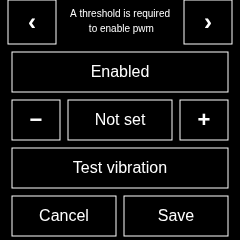
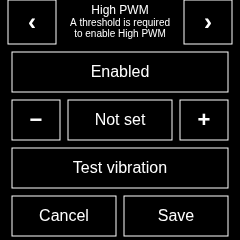
fix: name the alert in its errors and keep its title above them (#69)
Saving an enabled alert without a threshold said "A threshold is required
to enable pwm", naming the alert by its internal key, and the error
replaced the alert's title. Every alert validation message now uses the
display name the editor shows: "A threshold is required to enable High
PWM" / "High speed" / "Low wheel battery", "Invalid High PWM threshold"
(the laptop keeps its range suffix, e.g. "(0–100%)"), and "Invalid High
PWM alert setting". The names have one source per side:
configuration.ALERT_LABELS (laptop; alert_editor.py's view uses it too)
and configuration.labels (watch; render.js uses it for both titles).

While a message shows, the alert editor keeps its title at the top and
draws the message under it, wrapped at spaces into at most three lines of
23 characters, between the arrows and above Enabled (y 52). The page
number ("1/4") gives way, as before. The laptop Canvas and the watch use
the same wrap, so they show the same lines; no touch target moved.

Tests: test_alert_editor.py and watch/tests/alert-editor.cjs pin the
missing-threshold message for pwm, speed and battery; alerts-runtime.cjs
pins the drawn title and lines on the watch for all three, and
browser_alerts.py pins them on the laptop Canvas for High PWM and Low
wheel battery (the longest name, three lines). The shared trace
docs/acceptance/scenarios/alert-editor-keys.json expects the new
message.

Evidence (evidence-compare.py refactor/architecture-51 --browser: 6
[…]

Changed region(s): [[0.2917, 0.0, 0.7292, 0.175]]

diff --git a/watch/render.js b/watch/render.js
@@ -1,4 +1,6 @@
-/* Original 240x240, 1-bpp presentation; Canvas layout carried to Espruino Graphics. */
+/* Original 240x240, 1-bpp presentation; Canvas layout carried to Espruino Graphics.
+   The alert editor keeps its title above a message, wrapped at spaces into up to three 23-character lines, as the
+   laptop Canvas does (frontend/src/main.ts). */
 exports.draw = function (g, state) {
   var d = state.dashboard, i, x, y;
   function text(value, x, y, size, align) {
@@ -9,6 +11,14 @@ exports.draw = function (g, state) {
     g.setFont('Vector',size);
     while(size>1&&g.stringWidth(String(value))>width){size--;g.setFont('Vector',size);}
     return size;
+  }
+  function wrap(value,width,count){
+    var lines=[],cut;
+    while(value&&lines.length<count){
+      cut=value.length<=width?value.length:value.lastIndexOf(' ',width);if(cut<=0)cut=width;
+      lines.push(value.slice(0,cut));value=value.slice(cut).replace(/^ +/,'');
+    }
+    return lines;
   }
   function controls(){require('sw-controls').targets(state).forEach(function(target){
     var r=target.rect,width=r[2]-r[0],size=target.action==='preset_input_begin'?22:width<=48?12:16;
@@ -61,14 +71,14 @@ exports.draw = function (g, state) {
     var message=state.horn_feedback?state.horn_feedback.message:state.validation_error|| (state.persistence_error?'Configuration needs review':'');
     text(message||'SETTINGS',120,10,message?10:15);controls();
   }else if(state.screen==='alerts'){
-    var name=['pwm','speed','battery','lost'][state.alert_page];
+    var name=['pwm','speed','battery','lost'][state.alert_page],alertLabels=require('sw-configuration').labels;
     controls();
     var message=state.validation_error||state.persistence_error||(state.vibration.output_error?'Vibration output unavailable':'')||(state.horn_feedback?state.horn_feedback.message:'');
-    if(message){message=message.replace(/^Error: /,'');text(message.slice(0,23),120,7,10);text(message.slice(23,46),120,22,10);}
-    else {text({pwm:'High PWM',speed:'High speed',battery:'Low wheel battery',lost:'Lost telemetry'}[name],120,6,12);text((state.alert_page+1)+'/4',120,24,12);}
+    if(message){text(alertLabels[name],120,2,12);wrap(message.replace(/^Error: /,''),23,3).forEach(function(line,index){text(line,120,16+index*11,10);});}
+    else {text(alertLabels[name],120,6,12);text((state.alert_page+1)+'/4',120,24,12);}
     if(name==='lost')text('1 short pulse',120,111,14);
   }else if(state.screen==='threshold'){
-    text(state.validation_error?'Invalid threshold':{pwm:'High PWM',speed:'High speed',battery:'Low wheel battery'}[state.threshold_input.alert],120,2,12);
+    text(state.validation_error?'Invalid threshold':require('sw-configuration').labels[state.threshold_input.alert],120,2,12);
     text((state.threshold_input.text||'-')+(state.threshold_input.alert==='speed'?' km/h':' %'),120,20,20);controls();
   } else if(state.screen==='connection'){
     text('SELECT WHEEL',120,10,15);

diff --git a/frontend/src/main.ts b/frontend/src/main.ts
@@ -519,6 +519,17 @@ function watchButton(rect: Rect, label: string, size = 16): void {
 // An action refused before it reached the alert editor (transport, lease) has no
 // reason in the view, so the Canvas shows the browser's own message for it.
 function alertEditorAction(actionName: string): boolean { return actionName.startsWith('alerts_') || actionName.startsWith('threshold_'); }
+// The alert title stays above a message, wrapped at spaces into lines of at most width characters, as watch/render.js does.
+function wrapLines(value: string, width: number, count: number): string[] {
+  const lines: string[] = [];
+  while (value && lines.length < count) {
+    let cut = value.length <= width ? value.length : value.lastIndexOf(' ', width);
+    if (cut <= 0) cut = width;
+    lines.push(value.slice(0, cut));
+    value = value.slice(cut).replace(/^ +/, '');
+  }
+  return lines;
+}
 function renderWatchAlerts(editor: AlertEditorView): void {
   const error = watchError || editor.reason || current?.persistence_error || '';
   const entry = editor.entry;
@@ -533,8 +544,8 @@ function renderWatchAlerts(editor: AlertEditorView): void {
   }
   watchButton(alertRects.previous, '‹', 24); watchButton(alertRects.next, '›', 24);
   if (error) {
-    text(error.slice(0, 23), 120, 17, 10, '#ffffff', 'center');
-    text(error.slice(23, 46), 120, 32, 10, '#ffffff', 'center');
+    text(editor.label, 120, 14, 12, '#ffffff', 'center');
+    wrapLines(error, 23, 3).forEach((line, index) => text(line, 120, 26 + index * 11, 10, '#ffffff', 'center'));
   } else {
     text(editor.label, 120, 18, 12, '#ffffff', 'center');
     text(`${editor.page + 1}/4`, 120, 36, 12, '#ffffff', 'center');

diff --git a/watch/configuration.js b/watch/configuration.js
@@ -31,15 +31,17 @@ function readableName(text){
 }
 /* Highest saved threshold per measurement alert; zero is the lowest. */
 exports.thresholdLimits={pwm:100,speed:3276.7,battery:100};
+/* Each alert's display name: the alert editor's title and the name its messages use. */
+exports.labels={pwm:'High PWM',speed:'High speed',battery:'Low wheel battery',lost:'Lost telemetry'};
 exports.validateAlerts=function(alerts){
   if(!keys(alerts,['pwm','speed','battery','lost']))throw new Error('All four alert settings are required');
   Object.keys(alerts).forEach(function(name){
     var setting=alerts[name],threshold;
-    if(!keys(setting,name==='lost'?['enabled']:['enabled','threshold'])||typeof setting.enabled!=='boolean')throw new Error('Invalid '+name+' alert setting');
+    if(!keys(setting,name==='lost'?['enabled']:['enabled','threshold'])||typeof setting.enabled!=='boolean')throw new Error('Invalid '+exports.labels[name]+' alert setting');
     if(name==='lost')return;
     threshold=setting.threshold;
-    if(threshold===null){if(setting.enabled)throw new Error('A threshold is required to enable '+name);}
-    else if(typeof threshold!=='number'||!isFinite(threshold)||threshold<0||threshold>exports.thresholdLimits[name])throw new Error('Invalid '+name+' threshold');
+    if(threshold===null){if(setting.enabled)throw new Error('A threshold is required to enable '+exports.labels[name]);}
+    else if(typeof threshold!=='number'||!isFinite(threshold)||threshold<0||threshold>exports.thresholdLimits[name])throw new Error('Invalid '+exports.labels[name]+' threshold');
   });
   return exports.copy(alerts);
 };

diff --git a/tests/test_alert_editor.py b/tests/test_alert_editor.py
@@ -181,11 +181,11 @@ class AlertEditorTests(unittest.TestCase):
         app.action("alerts_update", alert="pwm", enabled=True)
 
         def fail():
-            with self.assertRaisesRegex(ValueError, "threshold is required to enable pwm"):
+            with self.assertRaisesRegex(ValueError, "threshold is required to enable High PWM"):
                 app.action("alerts_save")
             state = app.view()
             self.assertEqual(state["config"], saved)
-            self.assertEqual(state["alert_editor"]["reason"], "A threshold is required to enable pwm")
+            self.assertEqual(state["alert_editor"]["reason"], "A threshold is required to enable High PWM")
             return state
 
         fail()
@@ -214,6 +214,24 @@ class AlertEditorTests(unittest.TestCase):
         self.assertEqual(state["screen"], "settings")
         self.assertEqual(state["command_events"], [])
 
+    def test_a_missing_threshold_names_the_alert_the_editor_shows(self):
+        # The same messages are pinned on the watch in watch/tests/alert-editor.cjs.
+        for page, alert, title, message in (
+            (0, "pwm", "High PWM", "A threshold is required to enable High PWM"),
+            (1, "speed", "High speed", "A threshold is required to enable High speed"),
+            (2, "battery", "Low wheel battery", "A threshold is required to enable Low wheel battery"),
+        ):
+            with self.subTest(alert=alert):
+                app = settings()
+                app.action("alerts_begin")
+                app.action("alerts_page", page=page)
+                app.action("alerts_update", alert=alert, enabled=True)
+                with self.assertRaises(ValueError) as refused:
+                    app.action("alerts_save")
+                self.assertEqual(str(refused.exception), message)
+                editor = app.view()["alert_editor"]
+                self.assertEqual((editor["label"], editor["reason"]), (title, message))
+
     def test_out_of_range_entry_is_refused_at_save(self):
         app = settings()
         app.action("alerts_begin")
@@ -223,9 +241,9 @@ class AlertEditorTests(unittest.TestCase):
             app.action("threshold_key", key=key)
         state = app.action("threshold_done")
         self.assertEqual(state["alert_editor"]["threshold_label"], "101 %")
-        with self.assertRaisesRegex(ValueError, "Invalid battery threshold"):
+        with self.assertRaisesRegex(ValueError, "Invalid Low wheel battery threshold"):
             app.action("alerts_save")
-        self.assertEqual(app.view()["alert_editor"]["reason"], "Invalid battery threshold (0–100%)")
+        self.assertEqual(app.view()["alert_editor"]["reason"], "Invalid Low wheel battery threshold (0–100%)")
         self.assertEqual(app.view()["config"]["revision"], 0)
 
     def test_cancel_discards_the_draft_and_keeps_the_saved_alerts(self):
@@ -328,9 +346,9 @@ class AlertEditorTests(unittest.TestCase):
         entry = app.action("threshold_begin", alert="speed")["alert_editor"]["entry"]
         self.assertEqual(entry["text"], "NaN")
         app.action("threshold_cancel")
-        with self.assertRaisesRegex(ValueError, "Invalid speed threshold"):
+        with self.assertRaisesRegex(ValueError, "Invalid High speed threshold"):
             app.action("alerts_save")
-        self.assertEqual(app.view()["alert_editor"]["reason"], "Invalid speed threshold (0–3276.7 km/h)")
+        self.assertEqual(app.view()["alert_editor"]["reason"], "Invalid High speed threshold (0–3276.7 km/h)")
 
     def test_no_editor_view_without_an_alert_draft(self):
         app = settings()

diff --git a/tests/browser_alerts.py b/tests/browser_alerts.py
@@ -5,6 +5,32 @@ import asyncio
 from eucwatch import Application
 from support import evidence_directory, main, served_laptop, write_evidence
 
+# Records the text of the latest Canvas frame. Each frame starts by filling the whole 240x240 watch and is drawn
+# synchronously, so a page evaluation never sees half a frame.
+FRAME_TEXT = """(() => {
+  if (window.frameText) return;
+  const proto = CanvasRenderingContext2D.prototype, fillRect = proto.fillRect, fillText = proto.fillText;
+  window.frameText = [];
+  proto.fillRect = function (x, y, width, height) {
+    if (x === 0 && y === 0 && width === 240 && height === 240) window.frameText = [];
+    return fillRect.apply(this, arguments);
+  };
+  proto.fillText = function (text, x, y) {
+    window.frameText.push({text, x, y, width: this.measureText(text).width});
+    return fillText.apply(this, arguments);
+  };
+})()"""
+
+
+async def heading(page, lines):
+    """Wait until the alert editor's centred heading, above the Enabled control (y 52), shows lines."""
+    found = f"window.frameText.filter(t => t.x === 120 && t.y < 52).map(t => t.text).join('|')==={json.dumps('|'.join(lines))}"
+    await page.wait(found)
+    drawn = await page.evaluate("window.frameText.filter(t => t.x === 120 && t.y < 52)")
+    # Baselines in order, the last one clear of the Enabled control, every line between the arrows (x 56-184).
+    assert [row['y'] for row in drawn] == sorted(row['y'] for row in drawn) and drawn[-1]['y'] <= 50, drawn
+    assert all(row['width'] <= 126 for row in drawn), drawn
+
 
 async def exercise(page, app, clock):
     inputs = []
@@ -32,8 +58,11 @@ async def exercise(page, app, clock):
     await snapshot('alerts')
     await tap(120, 88)
     await label('; enabled;')
+    await page.evaluate(FRAME_TEXT)
     await tap(176, 217)
     await label('Error:')
+    # The watch draws the same lines (watch/tests/alerts-runtime.cjs).
+    await heading(page, ['High PWM', 'A threshold is required', 'to enable High PWM'])
     await snapshot('alerts-validation')
     assert app.view()['config'] == initial
     assert app.view()['alerts_draft']['pwm'] == {'enabled': True, 'threshold': None}
@@ -107,6 +136,26 @@ async def exercise(page, app, clock):
     assert app.view()['alerts_draft'] is None
     assert app.view()['command_events'] == []
     await pointer((120, 215), (120, 20))
+    await page.screen('dashboard')
+
+    # The longest alert name wraps to a third line under its title. Not part of the recorded #31 inputs.
+    await page.pointer((120, 10), (120, 110))
+    await label('Settings.')
+    await page.tap(120, 140)
+    await label('Alert editor 1 of 4')
+    for number in (2, 3):
+        await page.tap(208, 22)
+        await label(f'Alert editor {number} of 4')
+    await page.tap(120, 88)
+    await label('; enabled;')
+    await page.tap(176, 217)
+    await label('Error:')
+    await heading(page, ['Low wheel battery', 'A threshold is required', 'to enable Low wheel', 'battery'])
+    await snapshot('alerts-validation-battery')
+    await page.tap(64, 217)
+    await label('Settings.')
+    assert app.view()['config'] == expected
+    await page.pointer((120, 215), (120, 20))
     await page.screen('dashboard')
     return {'issue': 31, 'provenance': 'actual Canvas pointers / aiohttp / FileStore / controlled time; simulated vibration',
             'expected': 'watch-only validation, keypad entry/Cancel, whole Save/Cancel, restart persistence, four Test patterns, zero wheel commands',

diff --git a/laptop/eucwatch/configuration.py b/laptop/eucwatch/configuration.py
@@ -8,6 +8,9 @@ VERSION = 2
 DEFAULT_PRESETS = (("Jump", 0, 0, 0), ("Forest", 70, 0, 0),
                    ("Road", 30, 25, 10), ("Drag", 20, 70, 5))
 ALERTS = ("pwm", "speed", "battery", "lost")
+# Each alert's display name: the alert editor's title and the name its messages use.
+ALERT_LABELS = {"pwm": "High PWM", "speed": "High speed", "battery": "Low wheel battery",
+                "lost": "Lost telemetry"}
 # Highest saved threshold per measurement alert; zero is the lowest.
 THRESHOLD_LIMITS = {"pwm": 100, "speed": 3276.7, "battery": 100}
 # A preset riding value (Pedal sensitivity, Dynamic assist, Pedal dip compensation).
@@ -52,13 +55,13 @@ def validate_alerts(alerts: Any) -> dict[str, Any]:
             or set(setting) != required
             or type(setting["enabled"]) is not bool
         ):
-            raise ValueError(f"Invalid {name} alert setting")
+            raise ValueError(f"Invalid {ALERT_LABELS[name]} alert setting")
         if name == "lost":
             continue
         threshold = setting["threshold"]
         if threshold is None:
             if setting["enabled"]:
-                raise ValueError(f"A threshold is required to enable {name}")
+                raise ValueError(f"A threshold is required to enable {ALERT_LABELS[name]}")
         elif (
             isinstance(threshold, bool)
             or not isinstance(threshold, (int, float))
@@ -66,7 +69,7 @@ def validate_alerts(alerts: Any) -> dict[str, Any]:
             or not 0 <= threshold <= THRESHOLD_LIMITS[name]
         ):
             raise ValueError(
-                f"Invalid {name} threshold (0–{'3276.7 km/h' if name == 'speed' else '100%'})"
+                f"Invalid {ALERT_LABELS[name]} threshold (0–{'3276.7 km/h' if name == 'speed' else '100%'})"
             )
     return deepcopy(alerts)
 

diff --git a/laptop/eucwatch/alert_editor.py b/laptop/eucwatch/alert_editor.py
@@ -4,10 +4,8 @@ from copy import deepcopy
 from decimal import Decimal
 from typing import Any
 
-from .configuration import ALERTS, THRESHOLD_LIMITS, validate_alerts, validate_configuration
+from .configuration import ALERT_LABELS, ALERTS, THRESHOLD_LIMITS, validate_alerts, validate_configuration
 
-LABELS = {"pwm": "High PWM", "speed": "High speed", "battery": "Low wheel battery",
-          "lost": "Lost telemetry"}
 UNITS = {"pwm": "%", "speed": "km/h", "battery": "%", "lost": ""}
 # alerts_begin is Application's: it copies the saved alerts into a new draft.
 ACTIONS = ("alerts_update", "alerts_page", "alerts_adjust", "alerts_save", "alerts_cancel",
@@ -169,7 +167,7 @@ class AlertEditor:
         if self.entry is None:
             return None
         alert = self.entry["alert"]
-        return {"alert": alert, "label": LABELS[alert], "unit": UNITS[alert],
+        return {"alert": alert, "label": ALERT_LABELS[alert], "unit": UNITS[alert],
                 "text": self.entry["text"],
                 "display": f"{self.entry['text'] or '—'} {UNITS[alert]}"}
 
@@ -185,7 +183,7 @@ class AlertEditor:
             "previous_page": (self.page + 3) % 4,
             "next_page": (self.page + 1) % 4,
             "alert": alert,
-            "label": LABELS[alert],
+            "label": ALERT_LABELS[alert],
             "unit": UNITS[alert],
             "enabled": setting["enabled"],
             "toggle_label": "Enabled" if setting["enabled"] else "Disabled",
